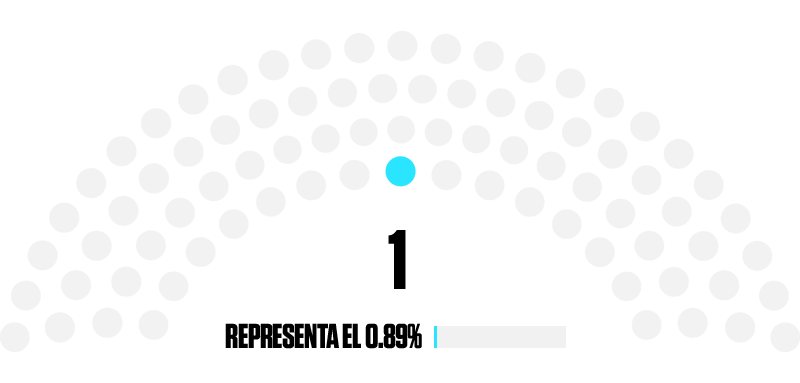
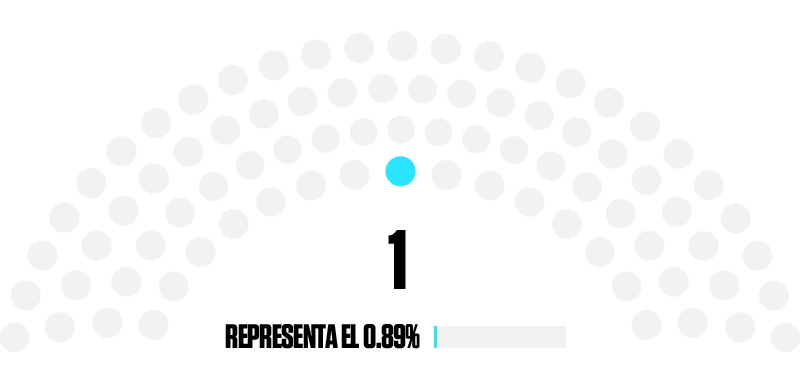
hemiciclos

Changed region(s): [[0.2812, 0.8329, 0.5312, 0.9191]]

diff --git a/css/style.css b/css/style.css
@@ -2125,6 +2125,18 @@
         text-align: center;
         max-width: 900px;
     }
+    p.fuente-grafico-nodos{
+        padding-top: 10px;
+        font-size: 10px;
+        color: var(--ink-xlight);
+        font-size: 0.75rem;
+        color: var(--gray-dark);
+        max-width: 1300px;
+        text-align: left;
+    }
+        p.fuente-grafico-nodos span{
+            font-weight: bold;
+        }
 
 
 /* ============================================

diff --git a/index.html b/index.html
@@ -284,6 +284,10 @@
             Explora las relaciones entre congresistas, sus familiares y sus contrataciones con el Estado. Haz clic en los nodos para ver el detalle de cada vínculo. La visualización abarca el periodo entre el 28 de julio de 2021, inicio del actual Congreso, y abril de 2025, previo a la modificación de la normativa de contrataciones públicas.
         </p>
         <iframe name="myiFrame" width="100%" height="700px" src="https://nuevasnarrativasec.github.io/grafico-nodos-de-poder/red_congresistas_v2.html" scrolling="no" marginwidth="0" marginheight="0" style="border:0px none #ffffff;"></iframe>
+        <p class="fuente-grafico-nodos">
+            <span>FUENTES: </span>
+            Declaraciones juradas de intereses (DJI), contrastadas con datos de Sunat y del OSCE. Periodo: del 28 de julio de 2021 a abril de 2025, previo al cambio en la normativa de contrataciones públicas.
+        </p>
     </div>
 
     <div class="box-main-mapa">